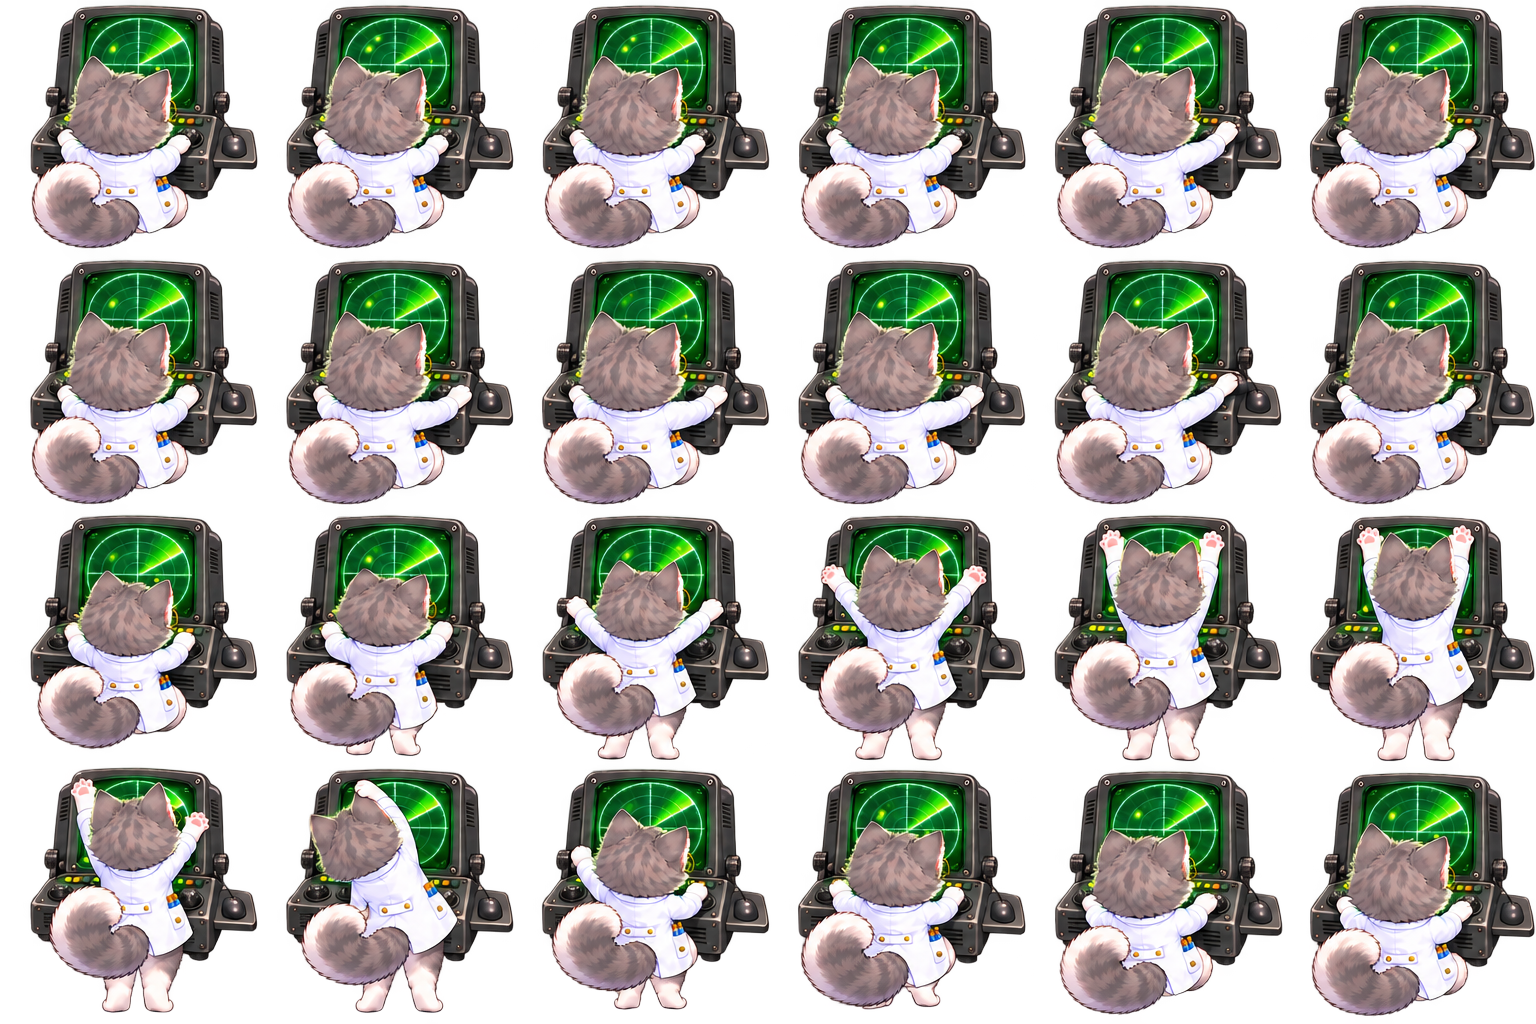
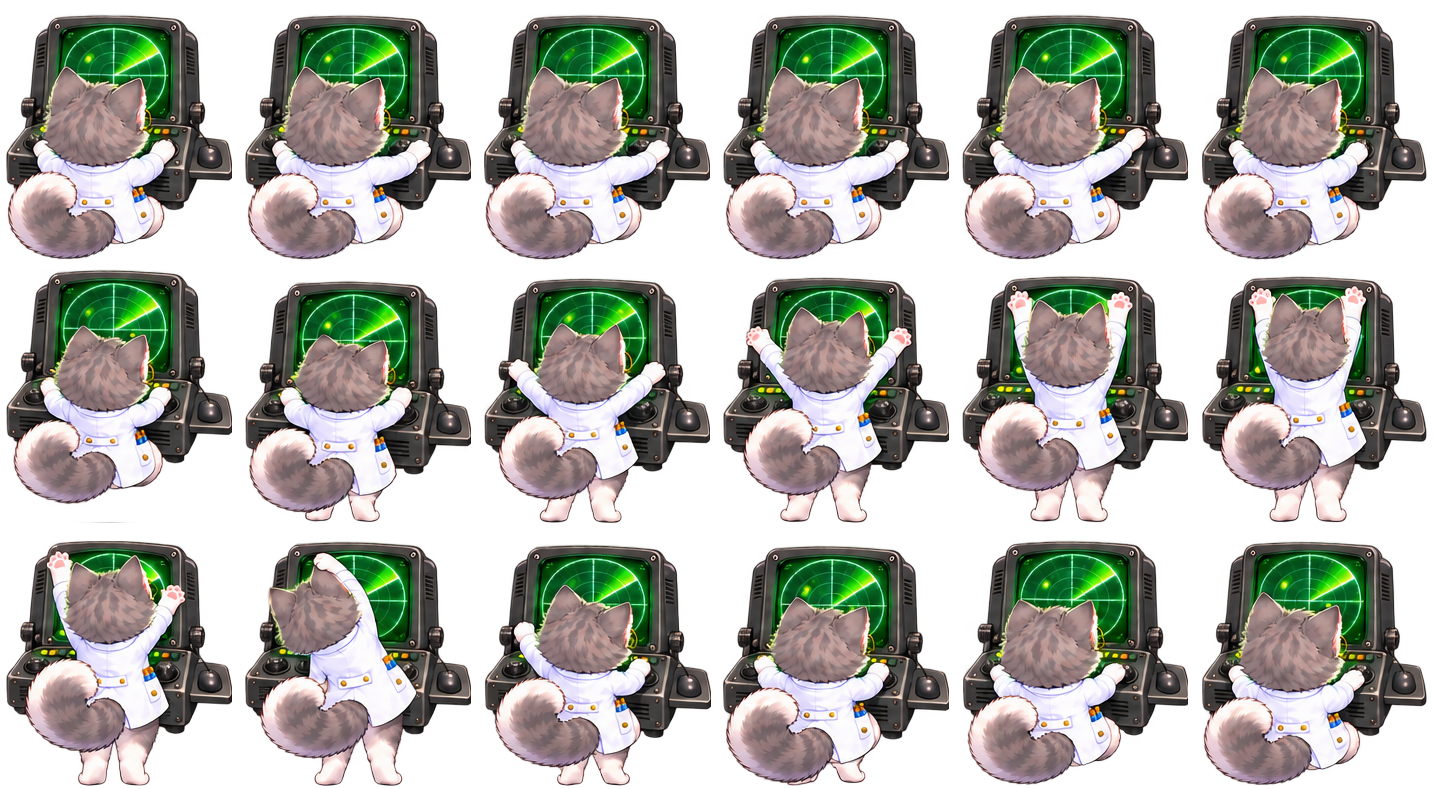
v3.9.10: 雷达观察员小猫重新裁图（去掉每帧左边的相邻动作碎片、所有帧居中+底部对齐）+ 提醒弹窗里按可用高度缩放不再切头（对所有自定义形象生效）

diff --git a/main.js b/main.js
@@ -67,6 +67,10 @@ const DIAG = (function () {
     if (a === '--diag-arxiv-hold') { out.arxiv = true; out.arxivHold = true; }
     /* --diag-alertmusic：弹一次休息提醒，点「我休息了」之后音乐就该停（用户报的 bug） */
     if (a === '--diag-alertmusic') out.alertmusic = true;
+    /* --diag-alertshot[=skin]：开着提醒弹窗截图（看跳舞那几帧会不会被切头） */
+    if (a === '--diag-alertshot') { out.alertshot = true; out.setskin = 'leidaxiaomao'; }
+    m = /^--diag-alertshot=(.+)$/.exec(a);
+    if (m) { out.alertshot = true; out.setskin = m[1]; }
     /* --diag-petskin=<id>：自检时指定桌面宠物用哪个形象（用来肉眼确认某个皮肤画得对不对） */
     m = /^--diag-petskin=(.+)$/.exec(a);
     if (m) out.petskin = m[1];
@@ -1807,6 +1811,33 @@ function createWindow() {
             diagLog('amB-4-点完 4 秒（还响就是 bug）', await au('B4'));
             await w9(4000);
             diagLog('amB-5-点完 8 秒', await au('B5'));
+          }
+          /* ============ 提醒弹窗里看皮肤（--diag-alertshot） ============
+             先把「宠物形象」写成指定皮肤（要重载页面才生效），再弹一次休息提醒、
+             不关它，最后那张截图就能看到提醒舞台上的动作有没有被切掉。 */
+          if (DIAG.alertshot) {
+            if (!win.webContents.__alertShotStage) win.webContents.__alertShotStage = 0;
+            const stage = win.webContents.__alertShotStage;
+            if (stage === 0) {
+              win.webContents.__alertShotStage = 1;
+              await win.webContents.executeJavaScript(
+                '(function(){var raw={};try{raw=JSON.parse(localStorage.getItem("kunkun.settings.v1")||"{}");}catch(e){}' +
+                'raw.skin=' + JSON.stringify(DIAG.setskin || 'leidaxiaomao') + ';' +
+                'localStorage.setItem("kunkun.settings.v1",JSON.stringify(raw));return true;})()', true);
+              win.webContents.reload();
+              const stop = new Error('diag-restart');
+              stop.diagRestart = true;
+              throw stop;
+            }
+            /* 第二轮：皮肤已经生效，弹提醒并停在这儿等截图 */
+            await new Promise(function (r) { setTimeout(r, 1500); });
+            send('tray-alert', 'rest');
+            await new Promise(function (r) { setTimeout(r, 3500); });   // 让它跳到跳舞那一段
+            diagLog('alertshot-就绪', await win.webContents.executeJavaScript(
+              '(function(){var o=document.getElementById("overlay");var c=document.getElementById("alertStage");' +
+              'var cv=c?c.getBoundingClientRect():null;' +
+              'return {弹窗开着:!!o&&!o.hidden, 舞台宽高:cv?Math.round(cv.width)+"x"+Math.round(cv.height):null,' +
+              ' 当前形象:window.kunkunArxivUI?"(页面正常)":"(页面正常)"};})()', true));
           }
           /* 重复待办自检：全部走真实弹窗 + 真实的「点勾完成」，看下一期排到哪天 */
           if (DIAG.repeat) {

diff --git a/pet-draw.js b/pet-draw.js
@@ -239,7 +239,8 @@
       PLAIN = !!this.plain;
 
       /* 选了自定义皮肤就用皮肤精灵图；没选或还没加载好就走代码手绘 */
-      if (!drawSkin(ctx, t, mood)) {
+      const availLocal = (baseY > 0 && s > 0) ? (baseY / s) : 310;
+      if (!drawSkin(ctx, t, mood, availLocal)) {
         if (!this.plain) this.drawGround(ctx, t, mood);
         drawFigure(ctx, t, mood, energy);
         if (!this.plain) this.drawOrbits(ctx, t, mood);
@@ -305,8 +306,11 @@
     return m.animations[mood] || m.animations.idle || null;
   }
 
-  /* 返回 true 表示这一帧由皮肤画掉了；false 表示该走代码手绘 */
-  function drawSkin(ctx, t, mood) {
+  /* 返回 true 表示这一帧由皮肤画掉了；false 表示该走代码手绘。
+     availLocal：原点往上还有多少「本地单位」可用（= 画布上方的空间 ÷ 当前缩放）。
+     提醒弹窗那个舞台 fit 只有 300，而皮肤是按 310 画的 —— 不给它让一让，
+     抬手那几帧的头顶就会被裁掉（用户报过）。 */
+  function drawSkin(ctx, t, mood, availLocal) {
     if (!P.skin.ready || !P.skin.img || !P.skin.meta) return false;
     const m = P.skin.meta;
     const a = skinAnimFor(mood);
@@ -317,11 +321,10 @@
     const fps = a.fps || m.fps || 10;
     const idx = Math.floor(t * fps) % count;
     const row = a.row || 0;
-    /* 与手绘角色对齐：底边落在原点、横向居中，整体高度约 278 个本地单位 */
-    /* 帧高映射成多少本地单位。调大 = 宠物在界面上更大。
-     之前缩小下边界的做法是让内容下移，视觉上宠物反而往下跑了；
-     正确做法是把它整体放大，下边界的占比自然就小了。 */
-    const k = 310 / fh;
+    /* 帧高映射成多少本地单位。正常是 310（和手绘角色一样高）；
+       放不下就按可用高度缩下来，宁可小一点也不切头。 */
+    const cap = (availLocal > 40 && availLocal < 310) ? availLocal : 310;
+    const k = cap / fh;
     const dw = fw * k, dh = fh * k;
     try {
       ctx.drawImage(P.skin.img, idx * fw, row * fh, fw, fh, -dw / 2, -dh, dw, dh);

diff --git a/app.js b/app.js
@@ -2635,7 +2635,7 @@
     /* 关于那行：版本 + 版权 + 许可一句话 + 数据都在本机。
        ⚠ 版权信息只在这里和 LICENSE / 安装向导里出现，发版说明里不提。 */
     if (el.setAbout) {
-      el.setAbout.innerHTML = '别感冒提醒器 v3.9.9 · © 2026 goafan（goafan@163.com）<br>' +
+      el.setAbout.innerHTML = '别感冒提醒器 v3.9.10 · © 2026 goafan（goafan@163.com）<br>' +
         '个人免费使用，<b>禁止商业用途</b>（PolyForm Noncommercial 1.0.0，商业授权请联系上面邮箱）。' +
         '数据全部存在本机，只有「检查更新」会访问 GitHub。';
     }

diff --git a/index.html b/index.html
@@ -19,7 +19,7 @@
   <div class="tb-left">
     <span class="tb-ico">🐣</span>
     <span class="tb-name">别感冒提醒器</span>
-    <span class="tb-ver" id="tbVer">v3.9.9</span>
+    <span class="tb-ver" id="tbVer">v3.9.10</span>
   </div>
   <nav class="tabbar" id="tabbar">
     <button class="tab-btn on" data-tab="home" id="tabHome">🏀 主界面</button>
